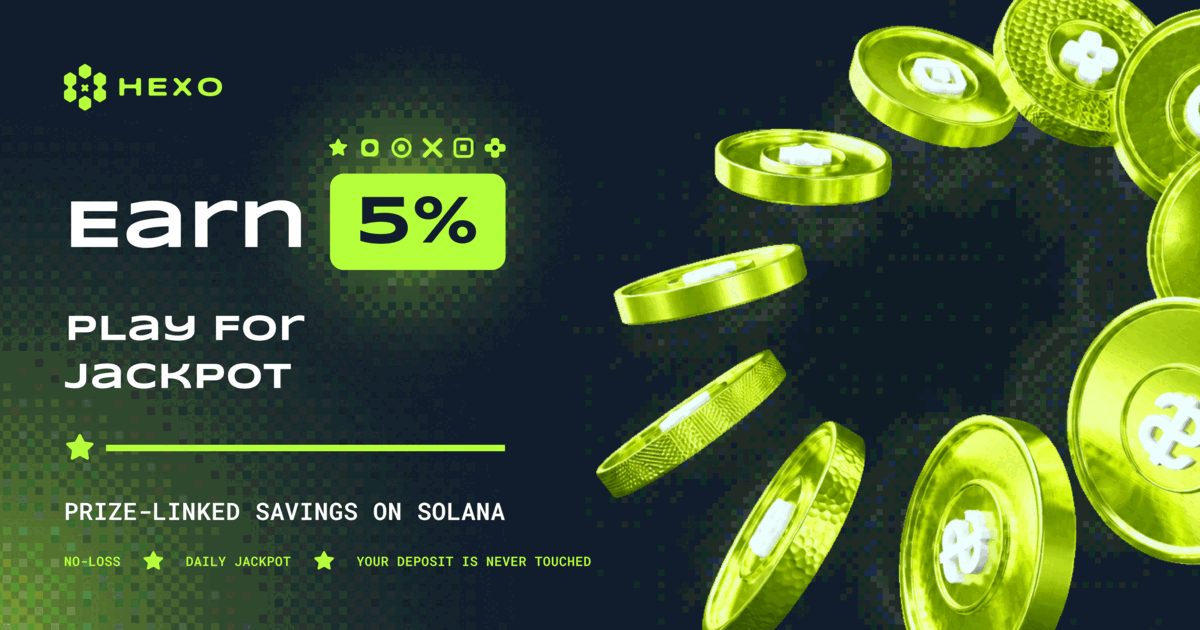
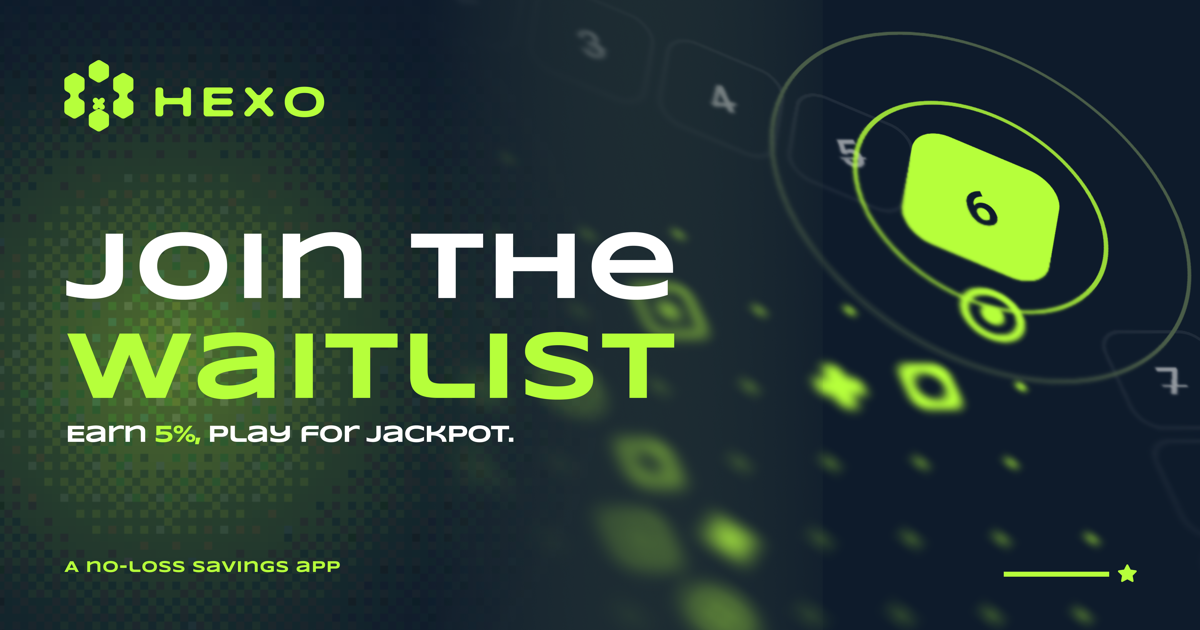
feat(landing): waitlist OG card and meta
Static 1200x630 card from the Figma waitlist design replaces the rendered
og.png; og.html and its .vercelignore entry go with the missing render
script. Title, description and the OG/Twitter tags now sell the waitlist,
and twitter:site names @Hexofun.

diff --git a/apps/landing/index.html b/apps/landing/index.html
@@ -3,10 +3,10 @@
   <head>
     <meta charset="UTF-8" />
     <meta name="viewport" content="width=device-width, initial-scale=1.0" />
-    <title>HEXO.fun — Save your money. Play your luck.</title>
+    <title>HEXO.fun — Join the waitlist. Earn 5%, play for jackpot.</title>
     <meta
       name="description"
-      content="Deposit USDC and earn a 5% base yield. Everything the pool earns above that goes into the daily jackpot. Every dollar you deposit is a ticket."
+      content="A no-loss savings app on Solana. Deposit USDC, earn 5%, and every dollar is a ticket in the daily jackpot. Join the waitlist."
     />
     <link rel="canonical" href="https://hexo-landing.vercel.app/" />
     <link rel="icon" href="/favicon.svg" type="image/svg+xml" />
@@ -15,10 +15,13 @@
     <meta property="og:type" content="website" />
     <meta property="og:site_name" content="HEXO.fun" />
     <meta property="og:url" content="https://hexo-landing.vercel.app/" />
-    <meta property="og:title" content="Earn 5%. Play for jackpot." />
+    <meta
+      property="og:title"
+      content="Join the waitlist — Earn 5%, play for jackpot."
+    />
     <meta
       property="og:description"
-      content="Prize-linked savings on Solana. Your deposit earns 5% and never goes into the game — every dollar is a ticket in the daily jackpot."
+      content="A no-loss savings app on Solana. Your deposit earns 5% and never goes into the game. Every dollar is a ticket in the daily jackpot."
     />
     <meta
       property="og:image"
@@ -28,13 +31,17 @@
     <meta property="og:image:height" content="630" />
     <meta
       property="og:image:alt"
-      content="HEXO. Earn 5%. Play for jackpot. Prize-linked savings on Solana."
+      content="HEXO. Join the waitlist. Earn 5%, play for jackpot. A no-loss savings app."
     />
     <meta name="twitter:card" content="summary_large_image" />
-    <meta name="twitter:title" content="Earn 5%. Play for jackpot." />
+    <meta name="twitter:site" content="@Hexofun" />
+    <meta
+      name="twitter:title"
+      content="Join the waitlist — Earn 5%, play for jackpot."
+    />
     <meta
       name="twitter:description"
-      content="Prize-linked savings on Solana. Your deposit earns 5% and never goes into the game."
+      content="A no-loss savings app on Solana. Your deposit earns 5% and never goes into the game. Every dollar is a ticket in the daily jackpot."
     />
     <meta
       name="twitter:image"
